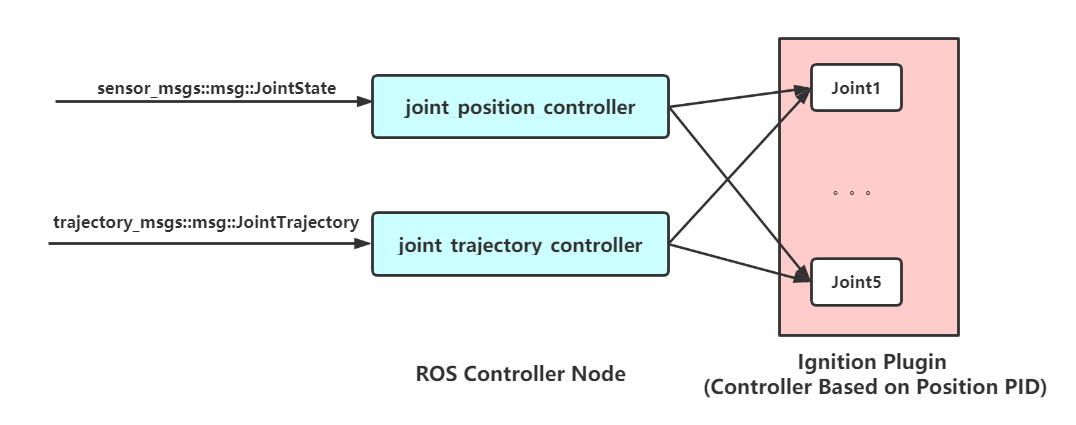
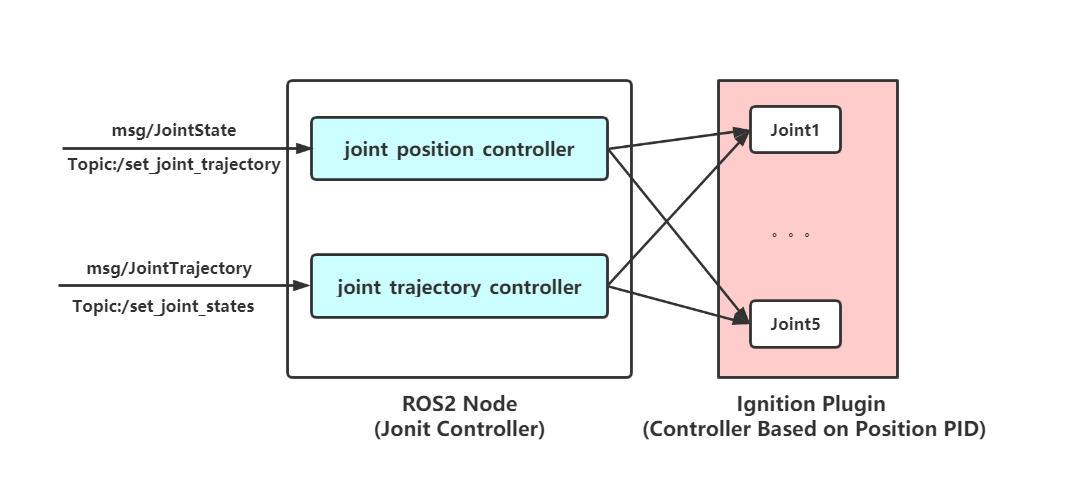
and joint_controller which support controller based on trajectory and position

Changed region(s): [[0.0307, 0.0612, 0.8894, 0.7953], [0.2454, 0.7647, 0.9814, 0.9482]]

diff --git a/launch/ur10_robotiq140_ign.launch.py b/launch/ur10_robotiq140_ign.launch.py
@@ -28,9 +28,9 @@ def generate_launch_description():
     # parameter for ur10 controller
     joint_names_list=["shoulder_pan_joint","shoulder_lift_joint","elbow_joint",
                     "wrist_1_joint","wrist_2_joint","wrist_3_joint"]
-    ign_cmd_joint_topics_list=[]
+    ign_joint_topics_list=[]
     for joint_name in joint_names_list:
-        ign_cmd_joint_topics_list.append("/model/ur10/joint/%s/0/cmd_pos"%joint_name)
+        ign_joint_topics_list.append("/model/ur10/joint/%s/0/cmd_pos"%joint_name)
     
     # ros<-ign, joint state publisher for ur10
     joint_state_publisher=Node(package='universal_robot_ign', 
@@ -42,11 +42,12 @@ def generate_launch_description():
                         ],
                 output='screen') 
     #  ros->ign,  joint controller for ur10
-    joint_position_controller=Node(package='universal_robot_ign', 
-                executable='joint_position_controller',
-                name="ur10_joint_position_controller",
+    joint_controller=Node(package='universal_robot_ign', 
+                executable='joint_controller',
+                name="ur10_joint_controller",
                 parameters=[{"joint_names": joint_names_list},
-                            {"ign_cmd_joint_topics": ign_cmd_joint_topics_list},
+                            {"ign_joint_topics": ign_joint_topics_list},
+                            {"rate":200},
                            ],
                 output='screen') 
     # ros->ign, ign bridge to control Robotiq140 Gripper
@@ -59,5 +60,5 @@ def generate_launch_description():
             output='screen'
     )
     return LaunchDescription([
-        ignition_simulator,joint_state_publisher,joint_position_controller,ros_ign_bridge
+        ignition_simulator,joint_state_publisher,joint_controller,ros_ign_bridge
     ])

diff --git a/launch/ur10_ign.launch.py b/launch/ur10_ign.launch.py
@@ -28,9 +28,9 @@ def generate_launch_description():
     # parameter for ur10 controller
     joint_names_list=["shoulder_pan_joint","shoulder_lift_joint","elbow_joint",
                     "wrist_1_joint","wrist_2_joint","wrist_3_joint"]
-    ign_cmd_joint_topics_list=[]
+    ign_joint_topics_list=[]
     for joint_name in joint_names_list:
-        ign_cmd_joint_topics_list.append("/model/ur10/joint/%s/0/cmd_pos"%joint_name)
+        ign_joint_topics_list.append("/model/ur10/joint/%s/0/cmd_pos"%joint_name)
     
     # ros<-ign, joint state publisher for ur10
     joint_state_publisher=Node(package='universal_robot_ign', 
@@ -42,15 +42,15 @@ def generate_launch_description():
                         ],
                 output='screen') 
     #  ros->ign,  joint controller for ur10
-    joint_trajectory_controller=Node(package='universal_robot_ign', 
-                executable='joint_trajectory_controller',
-                name="ur10_joint_trajectory_controller",
+    joint_controller=Node(package='universal_robot_ign', 
+                executable='joint_controller',
+                name="ur10_joint_controller",
                 parameters=[{"joint_names": joint_names_list},
-                            {"ign_cmd_joint_topics": ign_cmd_joint_topics_list},
+                            {"ign_joint_topics": ign_joint_topics_list},
                             {"rate":200},
                            ],
                 output='screen') 
                 
     return LaunchDescription([
-        ignition_simulator,joint_state_publisher,joint_trajectory_controller
+        ignition_simulator,joint_state_publisher,joint_controller
     ])

diff --git a/nodes/joint_controller_node.cpp b/nodes/joint_controller_node.cpp
@@ -9,17 +9,17 @@
  *
  ******************************************************************************/
 #include <rclcpp/rclcpp.hpp>
+#include <universal_robot_ign/joint_position_controller.hpp>
 #include <universal_robot_ign/joint_trajectory_controller.hpp>
 
 int main(int argc, char* argv[])
 {
     //creat ros2 node
     rclcpp::init(argc, argv);
-    auto ros_node = std::make_shared<rclcpp::Node>("joint_trajectory_controller");
+    auto ros_node = std::make_shared<rclcpp::Node>("joint_controller");
     // variable
     std::vector<std::string> joint_names;
     std::vector<std::string> ign_joint_topics;
-    std::string cmd_joint_trajectory_topic;
     int update_rate;
     // parameters
     ros_node->declare_parameter("joint_names");
@@ -29,8 +29,11 @@ int main(int argc, char* argv[])
     ign_joint_topics = ros_node->get_parameter("ign_joint_topics").as_string_array();
     update_rate = ros_node->get_parameter("rate").as_int();
     // create controller
-    auto joint_controller = std::make_shared<universal_robot_ign::jointTrajectoryController>(ros_node,
+    auto joint_trajectory_controller = std::make_shared<universal_robot_ign::jointTrajectoryController>(ros_node,
         joint_names, "set_joint_trajectory", ign_joint_topics ,update_rate);
+    // create controller 
+    auto joint_position_controller = std::make_shared<universal_robot_ign::JointPositionController>(ros_node,
+        joint_names, "set_joint_states", ign_joint_topics);
     // run node until it's exited
     rclcpp::spin(ros_node);
     //clean up

diff --git a/nodes/joint_position_controller_node.cpp b/nodes/joint_position_controller_node.cpp
@@ -19,17 +19,15 @@ int main(int argc, char* argv[])
     // variables
     std::vector<std::string> joint_names;
     std::string cmd_joint_states_topic;
-    std::vector<std::string> ign_cmd_joint_topics;
+    std::vector<std::string> ign_joint_topics;
     // parameters
     ros_node->declare_parameter("joint_names");
-    ros_node->declare_parameter("cmd_joint_states_topic","cmd_joint_states");
-    ros_node->declare_parameter("ign_cmd_joint_topics");
+    ros_node->declare_parameter("ign_joint_topics");
     joint_names = ros_node->get_parameter("joint_names").as_string_array();
-    cmd_joint_states_topic = ros_node->get_parameter("cmd_joint_states_topic").as_string();
-    ign_cmd_joint_topics = ros_node->get_parameter("ign_cmd_joint_topics").as_string_array();
+    ign_joint_topics = ros_node->get_parameter("ign_joint_topics").as_string_array();
     // create controller 
     auto joint_controller = std::make_shared<universal_robot_ign::JointPositionController>(ros_node,
-        joint_names, cmd_joint_states_topic, ign_cmd_joint_topics);
+        joint_names, "set_joint_states", ign_joint_topics);
     // run node until it's exited
     rclcpp::spin(ros_node);
     //clean up

diff --git a/nodes/joint_state_publisher_node.cpp b/nodes/joint_state_publisher_node.cpp
@@ -26,10 +26,8 @@ int main(int argc, char* argv[])
     ros_node->declare_parameter("joint_names");
     ros_node->declare_parameter("ign_joint_states_topic");
     ros_node->declare_parameter("ign_joint_idxs");
-    ros_node->declare_parameter("joint_states_topic", "joint_states");
     ros_node->declare_parameter("rate", 30);
     joint_names = ros_node->get_parameter("joint_names").as_string_array();
-    joint_states_topic = ros_node->get_parameter("joint_states_topic").as_string();
     ign_joint_states_topic = ros_node->get_parameter("ign_joint_states_topic").as_string();
     std::vector<int64_t> ign_joint_idxs_64 = ros_node->get_parameter("ign_joint_idxs").as_integer_array();
     update_rate = ros_node->get_parameter("rate").as_int();
@@ -44,7 +42,7 @@ int main(int argc, char* argv[])
     }
     // create publisher
     auto joint_publisher = std::make_shared<universal_robot_ign::JointStatePublisher>(ros_node,
-        joint_names, joint_states_topic, ign_joint_states_topic, ign_joint_idxs ,update_rate);
+        joint_names, "joint_states", ign_joint_states_topic, ign_joint_idxs ,update_rate);
     // run node until it's exited
     rclcpp::spin(ros_node);
     //clean up

diff --git a/plugins/robotiq_controller/RobotiqController.cpp b/plugins/robotiq_controller/RobotiqController.cpp
@@ -71,7 +71,7 @@ RobotiqController::RobotiqController() : dataPtr(std::make_unique<RobotiqControl
 }
 
 void RobotiqController::Configure(const Entity &_entity,
-                                  const std::shared_ptr<const sdf::Element> &_sdf,
+                                  const std::shared_ptr<const sdf::Element> &/*_sdf*/,
                                   EntityComponentManager &_ecm,
                                   EventManager & /*_eventMgr*/) {
     this->dataPtr->model = Model(_entity);

diff --git a/scripts/moveit2.py b/scripts/moveit2.py
@@ -65,7 +65,7 @@ class MoveIt2Interface(Node):
 
         # Publisher of trajectories
         self.joint_trajectory_pub = self.create_publisher(JointTrajectory,
-                                                          "cmd_joint_trajectory", 1)
+                                                          "set_joint_trajectory", 1)
 
         # Subscriber of current joint states
         self.joint_state = JointState()

diff --git a/launch/ur10_robotiq140_demo.launch.py b/launch/ur10_robotiq140_demo.launch.py
@@ -19,7 +19,7 @@ def generate_launch_description():
             executable='joint_state_publisher_gui',
             name="joint_state_publisher_gui",
             arguments=[ urdf ],
-            remappings=[('/joint_states', '/cmd_joint_states')],
+            remappings=[('/joint_states', '/set_joint_states')],
             output='screen') 
     
     return LaunchDescription([
